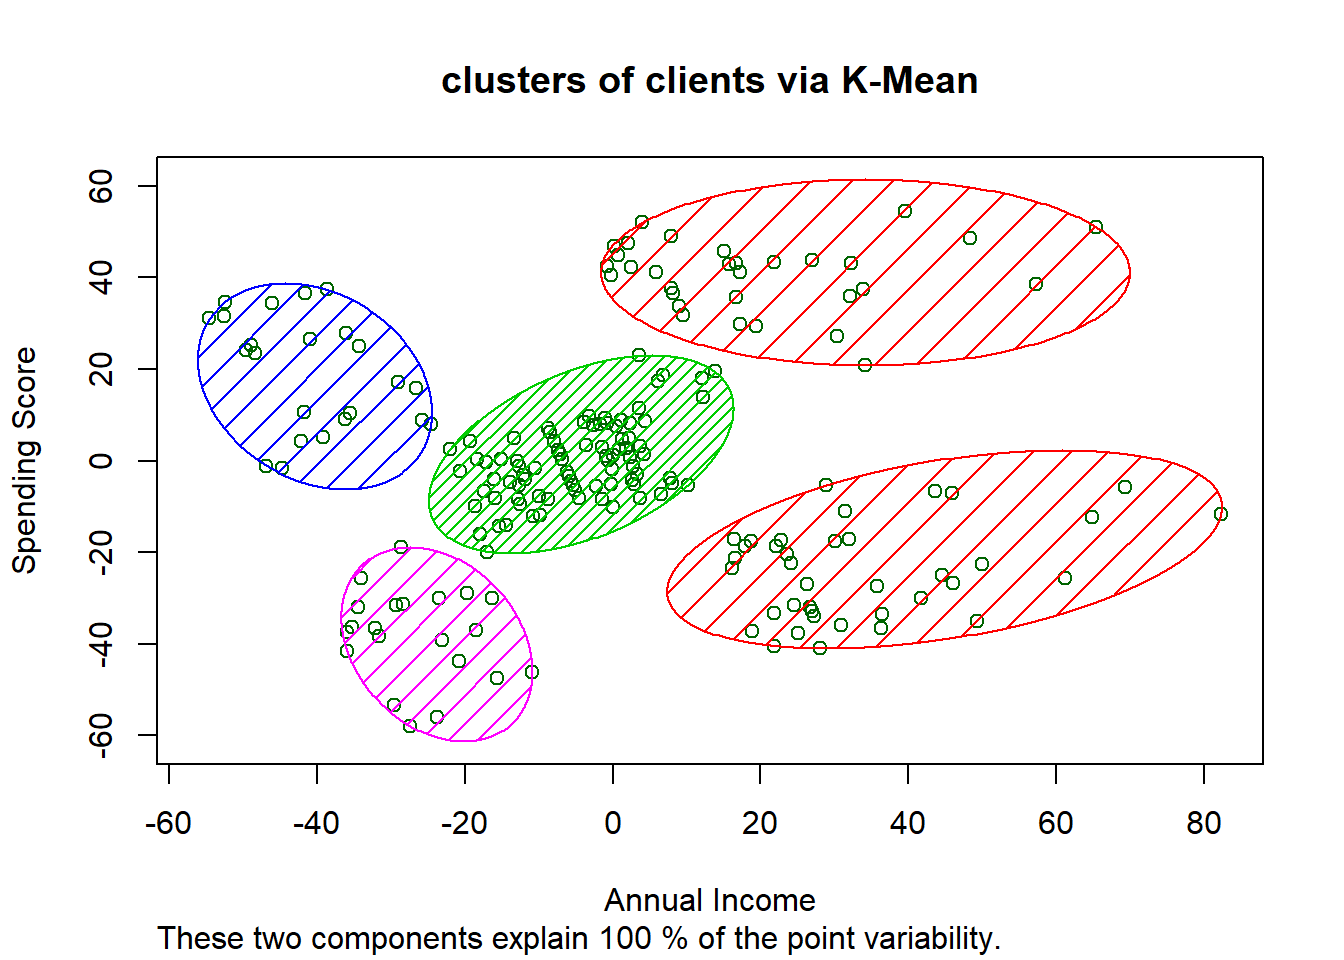
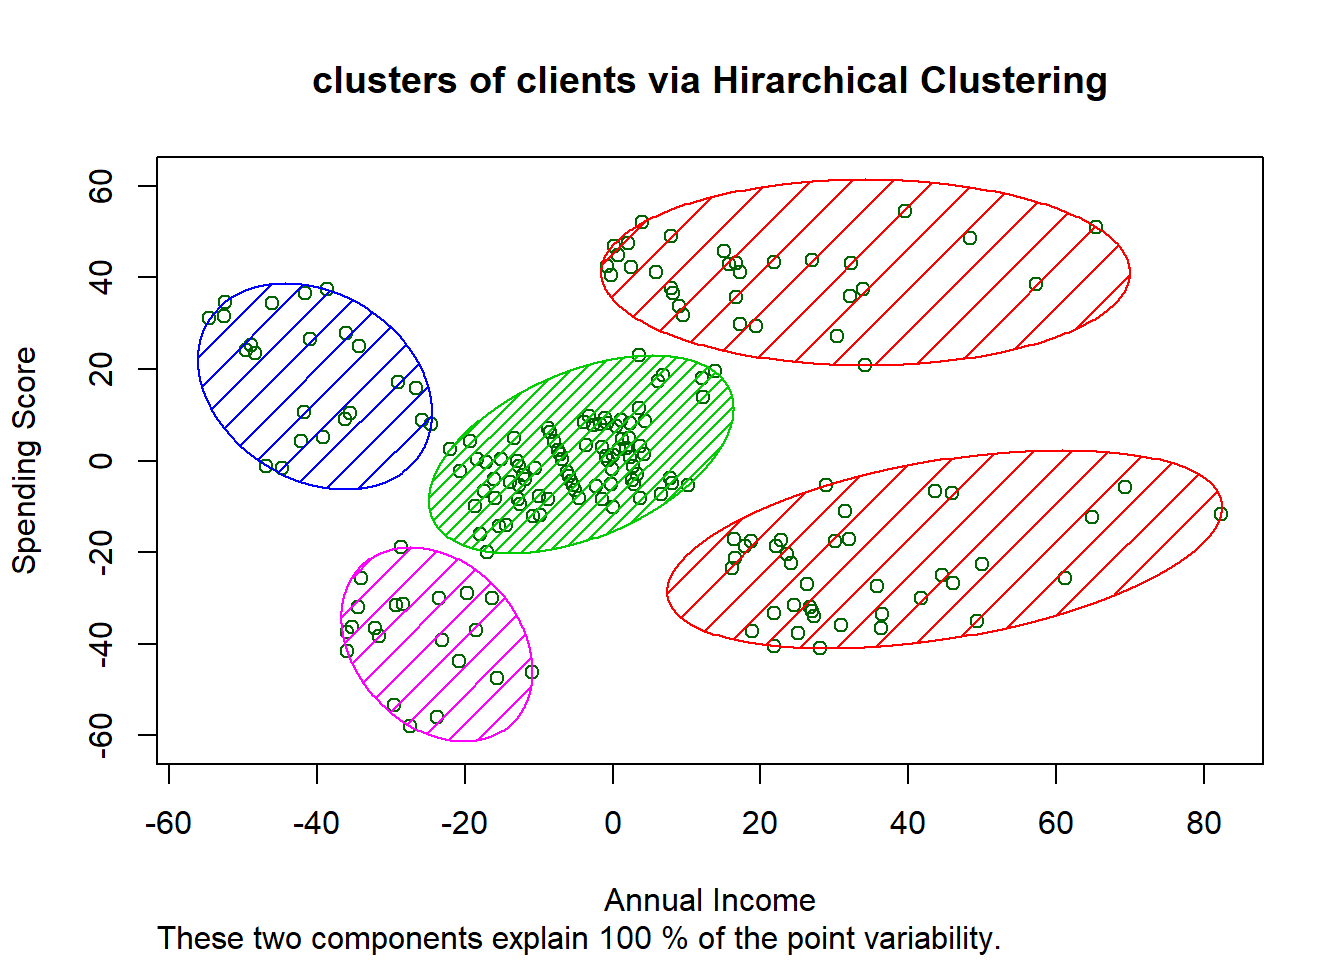
Update mlpost on clustering.

Changed region(s): [[0.2188, 0.0625, 0.8438, 0.0938]]

diff --git a/public/mlpost/customer-segmentation/index.html b/public/mlpost/customer-segmentation/index.html
@@ -271,7 +271,7 @@ clusplot(X,
          lines = 0,
          shade = TRUE, color = TRUE, labels = 0,
          plotchar = FALSE, span = TRUE,
-         main = paste(&#39;clusters of clients via K-Mean&#39;), xlab = &quot;Annual Income&quot;, ylab = &quot;Spending Score&quot;)</code></pre>
+         main = paste(&#39;clusters of clients via Hirarchical Clustering&#39;), xlab = &quot;Annual Income&quot;, ylab = &quot;Spending Score&quot;)</code></pre>
 <p><img src="/MLPost/2019-01-12-customer-segmentation_files/figure-html/unnamed-chunk-5-1.png" width="672" /></p>
 <p>The violet cluster has low income and low spending score. We can call them: SENSIBLE clients. The green cluster has both avrerage income and spending. We can call them: STANDART clients. The red top cluster has high income and high spending. They are the most targeting client in a compain: Target clients. The red bottom cluster has high income and low spending. We can call them: CAREFUL clients. The blue cluster has low income but high spending score. They do not care to spend much: CARELESS clients.</p>
 

diff --git a/content/MLPost/2019-01-12-customer-segmentation.html b/content/MLPost/2019-01-12-customer-segmentation.html
@@ -214,6 +214,6 @@ clusplot(X,
          lines = 0,
          shade = TRUE, color = TRUE, labels = 0,
          plotchar = FALSE, span = TRUE,
-         main = paste(&#39;clusters of clients via K-Mean&#39;), xlab = &quot;Annual Income&quot;, ylab = &quot;Spending Score&quot;)</code></pre>
+         main = paste(&#39;clusters of clients via Hirarchical Clustering&#39;), xlab = &quot;Annual Income&quot;, ylab = &quot;Spending Score&quot;)</code></pre>
 <p><img src="/MLPost/2019-01-12-customer-segmentation_files/figure-html/unnamed-chunk-5-1.png" width="672" /></p>
 <p>The violet cluster has low income and low spending score. We can call them: SENSIBLE clients. The green cluster has both avrerage income and spending. We can call them: STANDART clients. The red top cluster has high income and high spending. They are the most targeting client in a compain: Target clients. The red bottom cluster has high income and low spending. We can call them: CAREFUL clients. The blue cluster has low income but high spending score. They do not care to spend much: CARELESS clients.</p>
